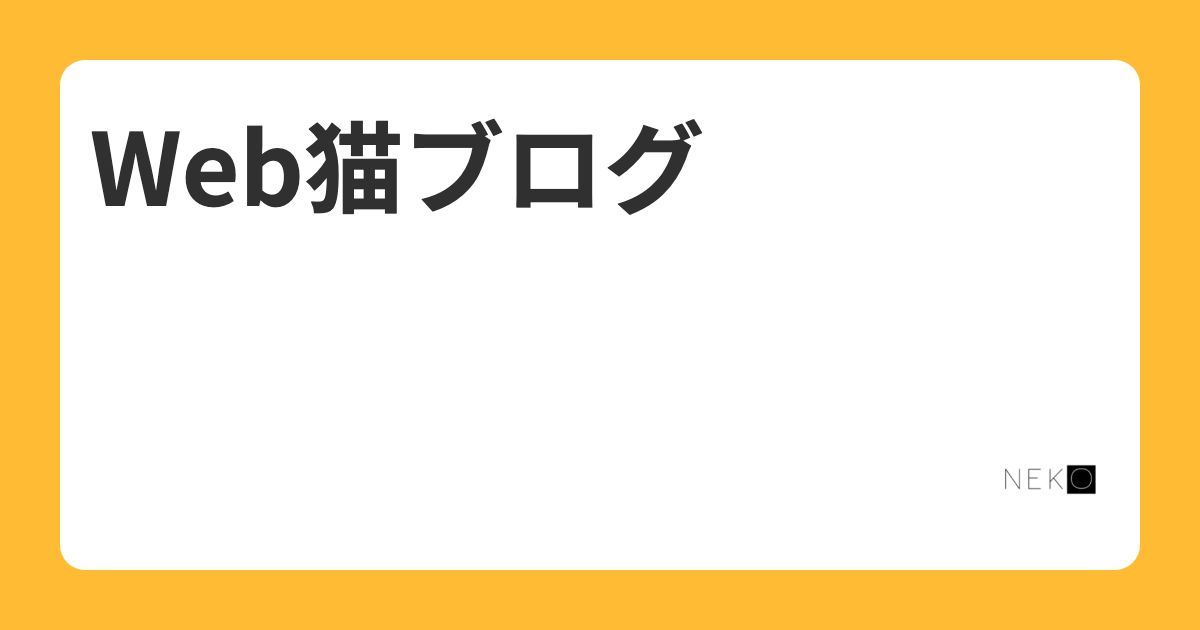
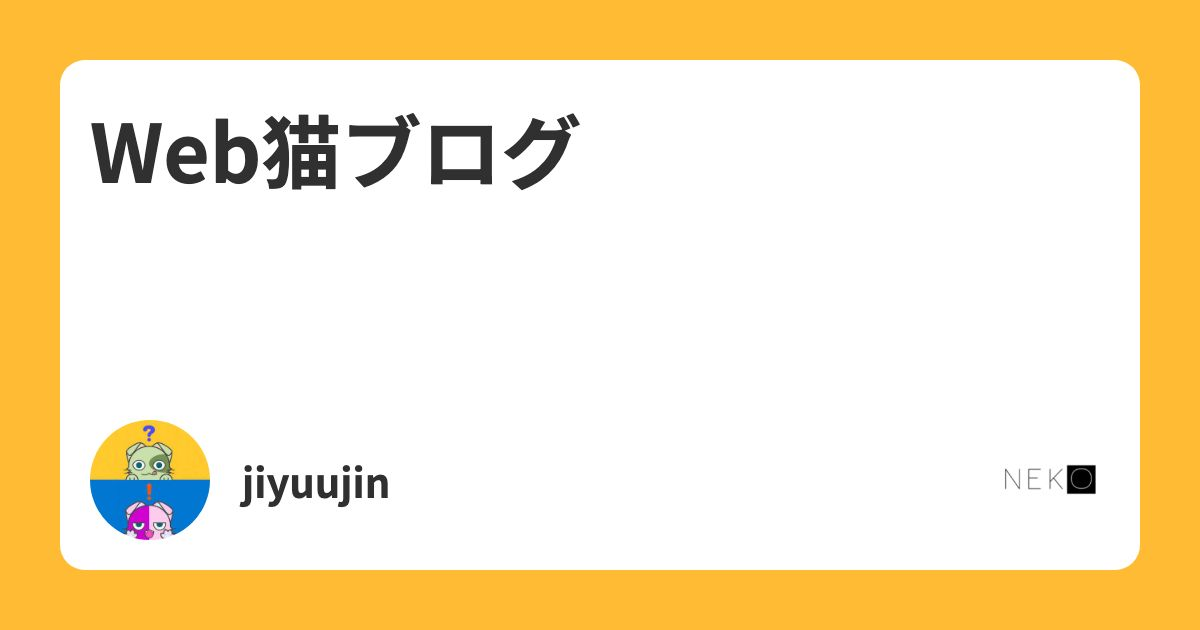
add name to og image

Changed region(s): [[0.0617, 0.181, 0.5858, 0.3619], [0.0617, 0.6635, 0.3392, 0.8746]]

diff --git a/data/og.html b/data/og.html
@@ -55,8 +55,26 @@
 
       .logo {
         display: flex;
-        flex-direction: row-reverse;
+        flex-direction: row;
+        justify-content: space-between;
         height: var(--logo-height);
+      }
+
+      .logo .profile {
+        display: flex;
+        align-items: center;
+        vertical-align: middle;
+      }
+
+      .name {
+        margin-left: 32px;
+        font-size: 40px;
+        font-weight: bold;
+      }
+
+      .logo .profile img {
+        object-fit: cover;
+        border-radius: 50%;
       }
 
       .logo img {
@@ -70,6 +88,10 @@
       <div class="main">
         <h1 class="title"></h1>
         <div class="logo">
+          <div class="profile">
+            <img src="./bakeneko2.png" />
+            <p class="name">jiyuujin</p>
+          </div>
           <img src="./nekohack.png" />
         </div>
       </div>
@@ -81,7 +103,7 @@
         titleElement.innerHTML = title
       }
 
-      function setTitleFontSize(fontSize = 100) {
+      function setTitleFontSize(fontSize = 80) {
         const titleElement = document.querySelector('.title')
         titleElement.style.fontSize = fontSize + 'px'
         const titleHeight = titleElement.getBoundingClientRect().height
